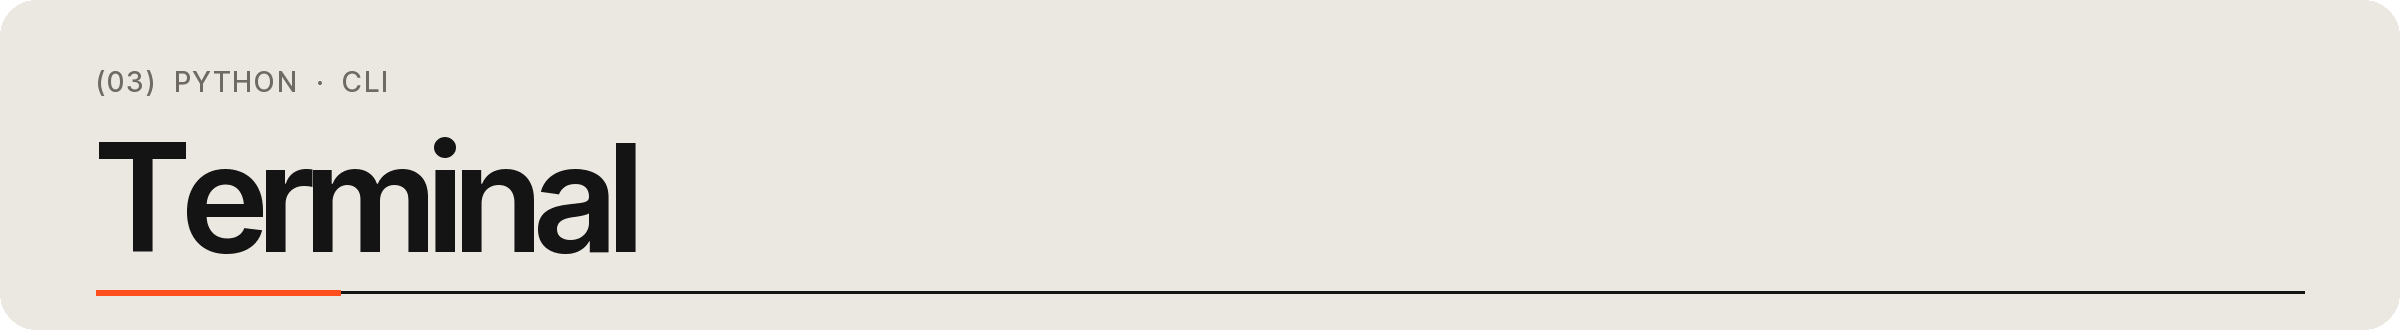
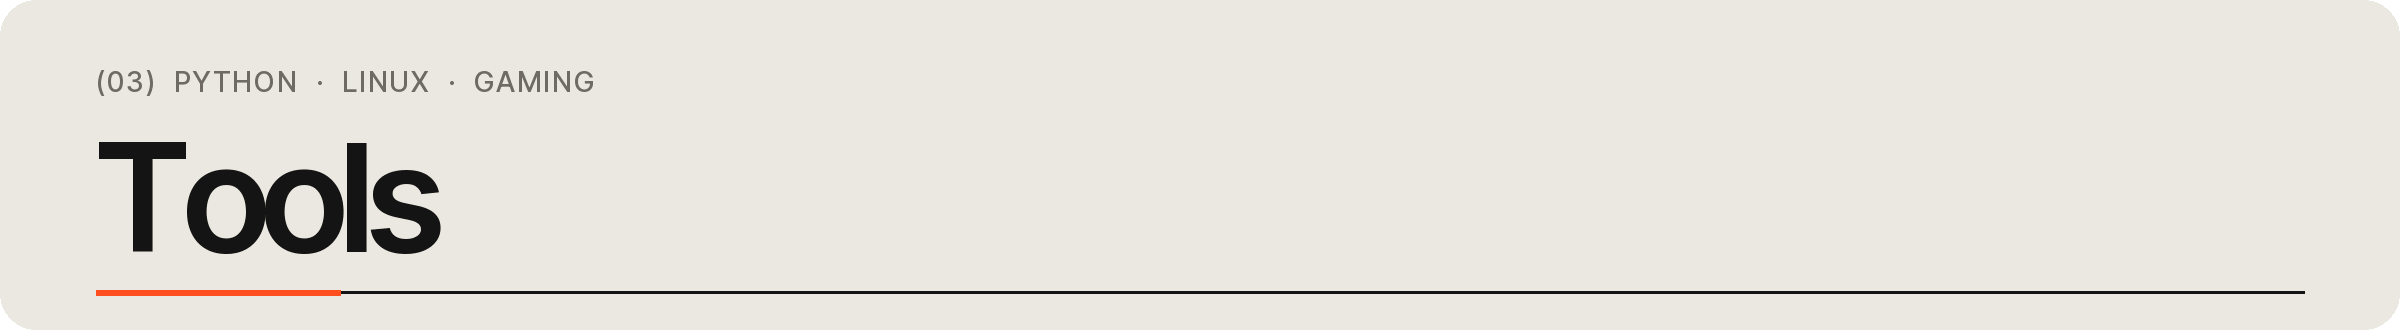
Add LCAD and Game Art Generator; rename section 03 to Tools
Claude-Session: https://claude.ai/code/session_018SK9wzQF6JaDWXjk2yfZsh

Changed region(s): [[0.0625, 0.4242, 0.2812, 0.7879], [0.125, 0.2121, 0.25, 0.2727]]

diff --git a/README.md b/README.md
@@ -30,11 +30,13 @@
 
 <br/>
 
-<img src="./assets/h-terminal.png?v=432126" width="100%" alt="03 — Terminal" />
+<img src="./assets/h-terminal.png?v=432448" width="100%" alt="03 — Tools" />
 
 <p align="center">
   <a href="https://github.com/ethembeldagli/roastfetch"><img src="./assets/card-roastfetch.png?v=432126" width="49%" alt="roastfetch" /></a>
   <a href="https://github.com/ethembeldagli/termwrapped"><img src="./assets/card-termwrapped.png?v=432126" width="49%" alt="termwrapped" /></a>
+  <a href="https://github.com/ethembeldagli/lcad"><img src="./assets/card-lcad.png?v=432448" width="49%" alt="LCAD — Lutris cover art downloader" /></a>
+  <a href="https://github.com/ethembeldagli/Game-Art-Generator"><img src="./assets/card-gag.png?v=432448" width="49%" alt="Game Art Generator" /></a>
 </p>
 
 <br/>
